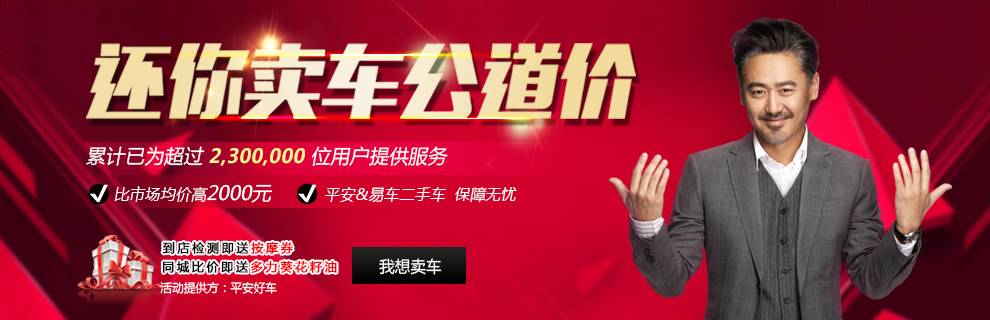
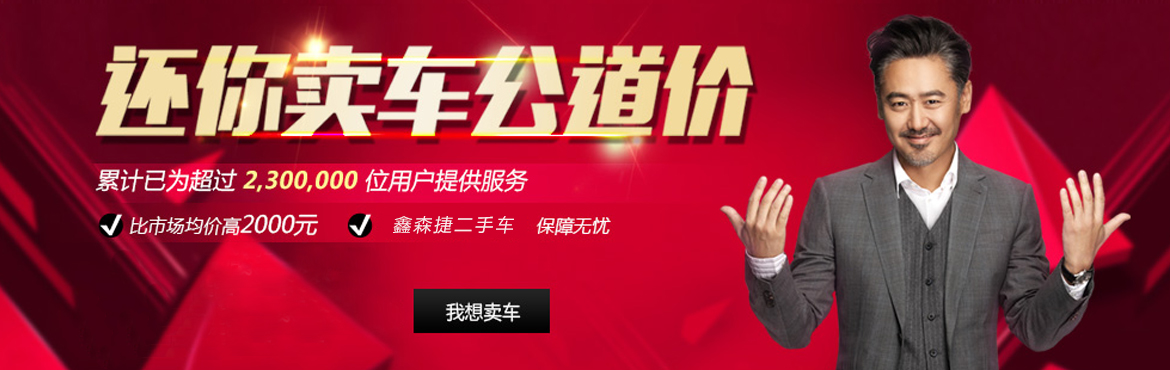
优化轮播图，推广广告，超链接
更新置换服务页面轮播图、样式
更新重卡页面轮播图
修改首页底部样式
……

diff --git a/trucks.html b/trucks.html
@@ -138,13 +138,19 @@
 			</div>
 			<!--推广-->
 			<div class="row">
-				<div class="col-xs-6">
-					<div class="trucks_tgimg">我要挂靠（推广图片）</div>
-				</div>
-				<div class="col-xs-6">
-					<div class="trucks_tgimg">置换、回收服务（推广图片）</div>
+			<div class="col-xs-6" style="padding-right: 0;">
+				<!--<h3 class="truck_h3">回收服务</h3>-->
+				<div class="truck_ask" style="text-align: center;">
+					<a href="trucks.html"><img src="imgs/重卡.jpg"  style="width: 100%;"/></a>
 				</div>
 			</div>
+			<div class="col-xs-6" style="padding-left: 0;">
+				<!--<h3 class="truck_h3">置换服务</h3>-->
+				<div class="truck_ask" style="text-align: center;">
+					<a href="transport.html"><img src="imgs/i_nav_f.jpg" style="width: 100%;" /></a>
+				</div>
+			</div>
+		</div>
 			<!--产品列表-->
 			<div role="tabpanel">
 				<!--tab1-->

diff --git a/displaced.html b/displaced.html
@@ -57,11 +57,11 @@
 				<li data-target="#carousel-example-generic" data-slide-to="2" class=""></li>
 			</ol>
 			<div class="carousel-inner" role="listbox">
-				<!--<div class="item">
-					<img alt="轮播图" src="imgs/置换2.jpg" data-holder-rendered="true">
-				</div>-->
-				<div class="item active">
+				<div class="item">
 					<img alt="轮播图" src="imgs/置换.jpg" data-holder-rendered="true">
+				</div>
+				<div class="item active">
+					<img alt="轮播图" src="imgs/置换04.jpg" data-holder-rendered="true">
 				</div>
 				<div class="item">
 					<img alt="轮播图" src="imgs/置换3.jpg" data-holder-rendered="true">

diff --git a/mortgage.html b/mortgage.html
@@ -262,7 +262,7 @@
 		</ol>
 		<div class="carousel-inner" role="listbox">
 			<div class="item active">
-				<img src="imgs/车贷.jpg" alt="轮播图1">
+				<a href="fill_inf.html"><img src="imgs/车贷.jpg" alt="轮播图1"></a>
 			</div>
 			<div class="item">
 				<img src="imgs/车贷02.jpg" alt="轮播图2">
